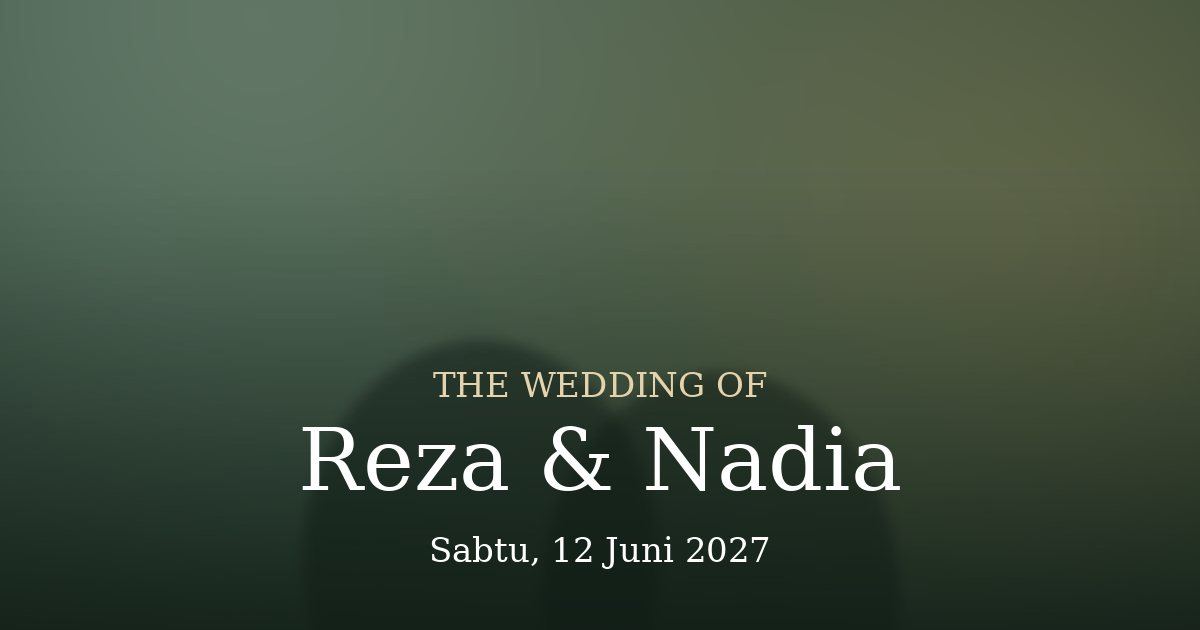
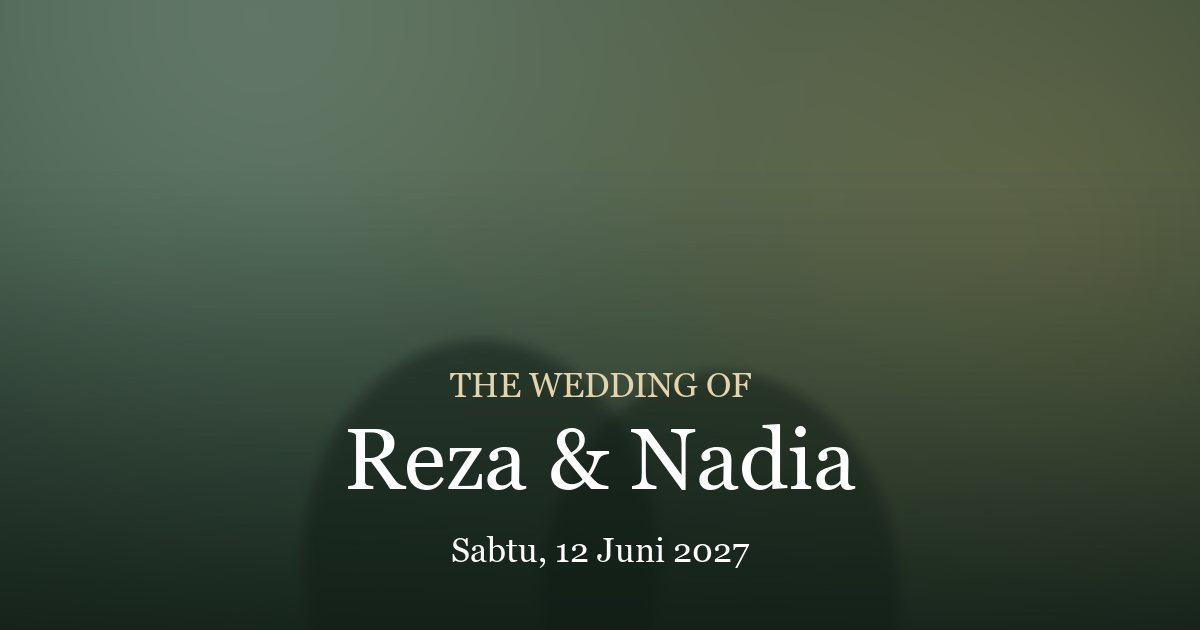
Add files via upload

Changed region(s): [[0.2467, 0.6635, 0.7708, 0.7841], [0.37, 0.573, 0.6475, 0.6333], [0.3392, 0.8444, 0.6475, 0.9048]]

diff --git a/index.html b/index.html
@@ -9,9 +9,10 @@
 <meta property="og:type" content="website">
 <meta property="og:title" content="Undangan Pernikahan Reza &amp; Nadia">
 <meta property="og:description" content="Kami mengundang Anda ke pernikahan Reza &amp; Nadia - Sabtu, 12 Juni 2027 di Gedung Serbaguna Mawar.">
-<meta property="og:image" content="foto/og.jpg">
+<meta property="og:image" content="https://ddarkan03-ux.github.io/Pernikahan-V10/foto/og.jpg">
 <meta property="og:image:width" content="1200">
 <meta property="og:image:height" content="630">
+<meta property="og:url" content="https://ddarkan03-ux.github.io/Pernikahan-V10/">
 <meta name="twitter:card" content="summary_large_image">
 <!--/OG-->
 <meta name="theme-color" content="#2f4a3c">
